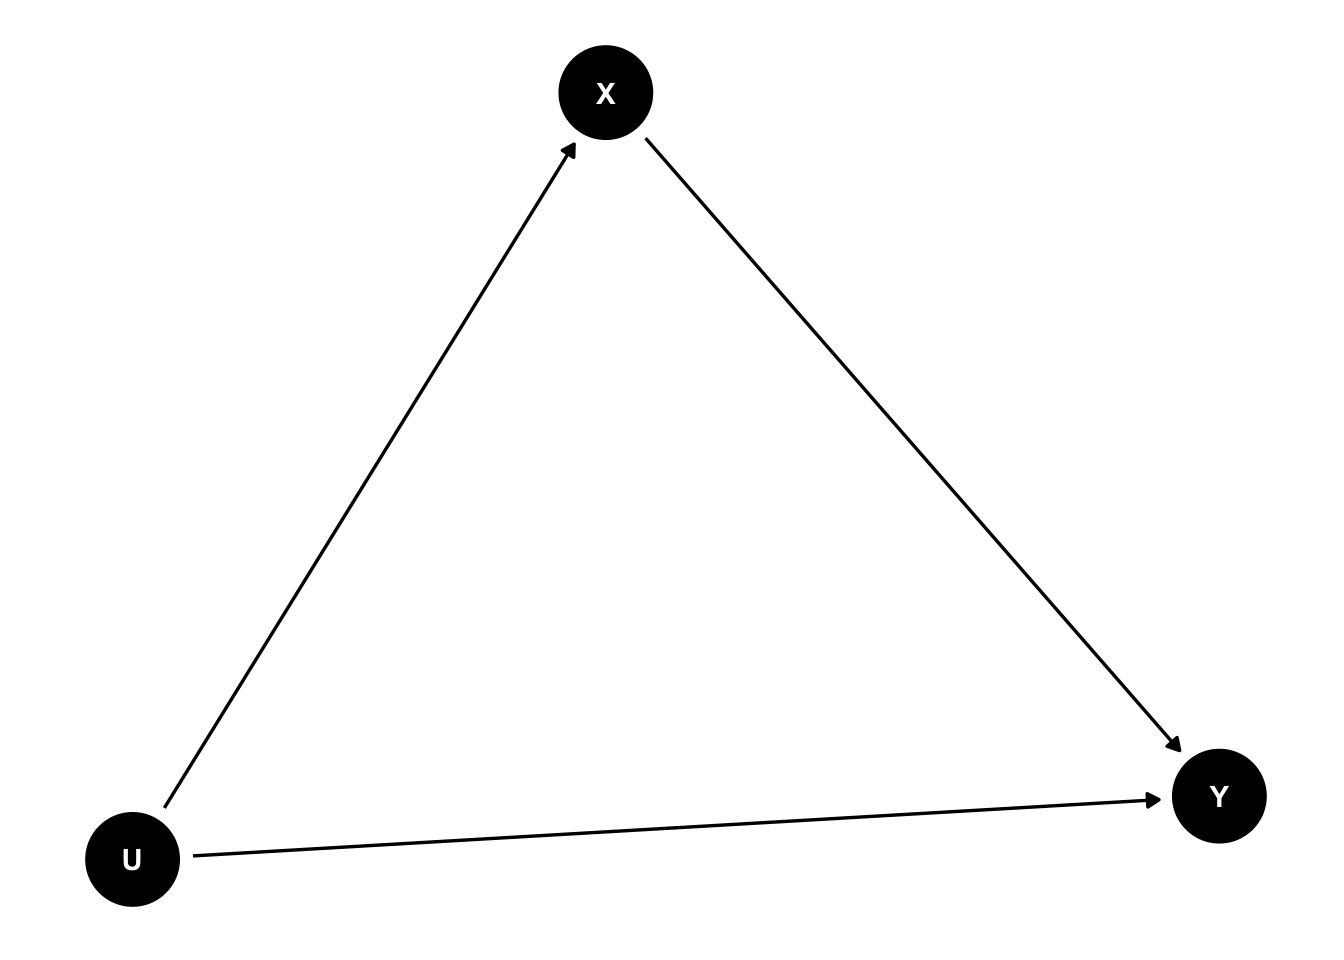
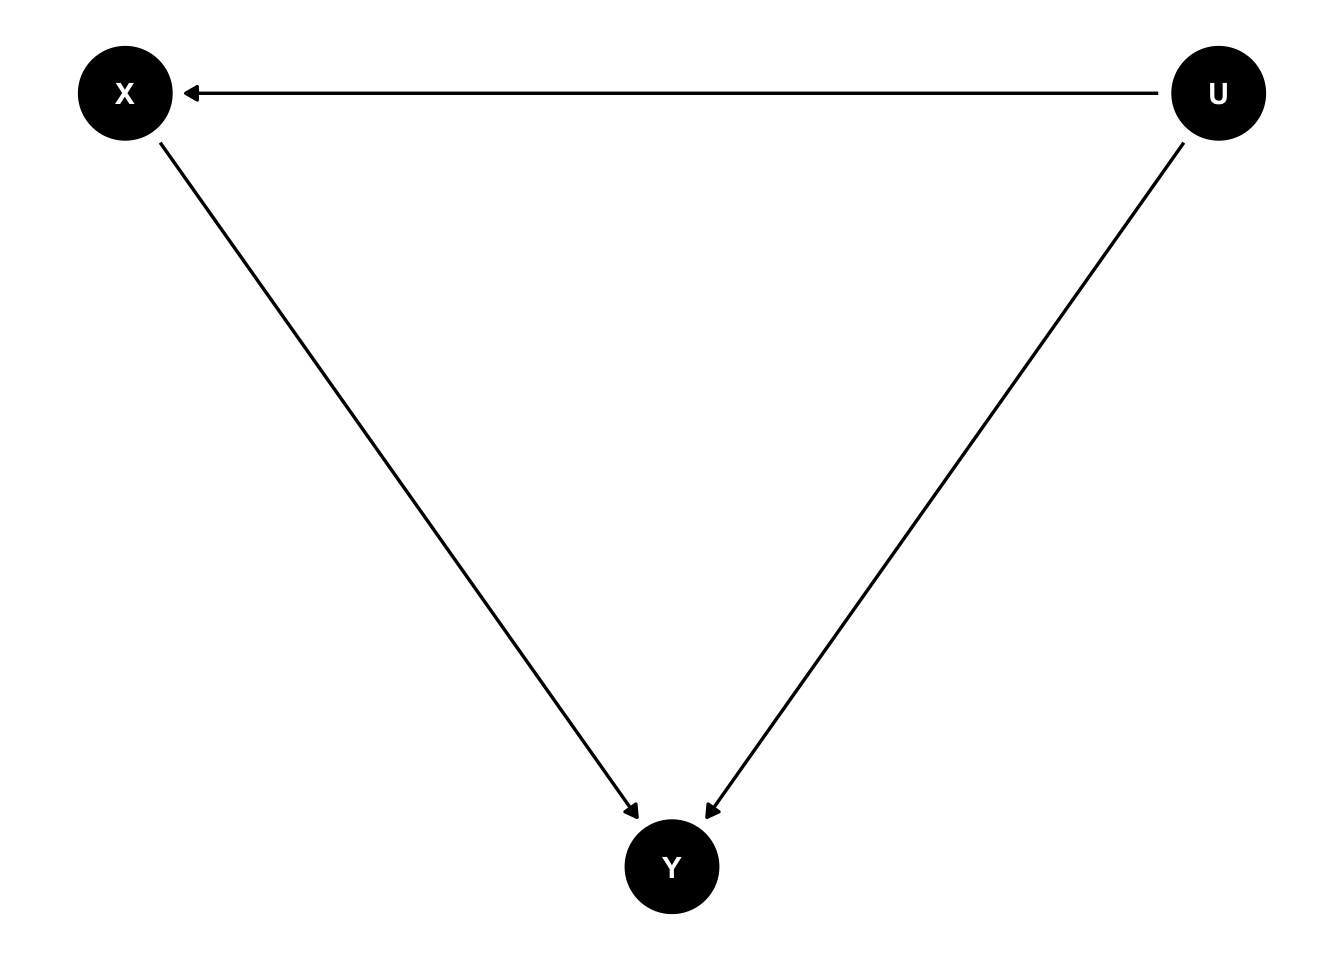
Built site for gh-pages

diff --git a/lectures/week-12_sensitivity_analysis-rev4.html b/lectures/week-12_sensitivity_analysis-rev4.html
@@ -262,7 +262,7 @@ window.Quarto = {
 </script>
 
 <link rel="stylesheet" href="../assets/styles/css/home.css">
-<meta property="og:title" content="Week 10: Bounds and Tipping-Point Sensitivity Analysis – Introduction to Causal Inference">
+<meta property="og:title" content="Week 12: Bounds and Tipping-Point Sensitivity Analysis – Introduction to Causal Inference">
 <meta property="og:description" content="Introduction to Causal Inference">
[1 lines of base64/hex data omitted]
 <meta property="og:site_name" content="Introduction to Causal Inference">
@@ -547,7 +547,7 @@ window.Quarto = {
       <div>
       <div class="quarto-title-meta-heading">Published</div>
       <div class="quarto-title-meta-contents">
-        <p class="date">Nov-05-2025</p>
+        <p class="date">Nov-06-2025</p>
       </div>
     </div>
     
@@ -783,31 +783,31 @@ window.Quarto = {
 </section>
 <section id="part-a-bounds-partial-identification" class="level3">
 <h3 class="anchored" data-anchor-id="part-a-bounds-partial-identification">Part A: Bounds (Partial Identification)</h3>
-<p>If we make <em>no</em> assumption about <span class="math inline">\(U\)</span>, we lose point identification. We can no longer estimate a single value for the Average Treatment Effect (ATE), <span class="math inline">\(\mathbb{E}[Y(1) - Y(0)]\)</span>.</p>
+<p>If we make <em>no</em> assumption about <span class="math inline">\(U\)</span>, we lose point identification. We can no longer estimate a single value for the Average Treatment Effect (ATE), <span class="math inline">\(\mathbb{E}[Y^1 - Y^0]\)</span>.</p>
 <p>However, we can often identify a <strong>range</strong> or <strong>set</strong> of possible values. This is <strong>partial identification</strong>. The key insight is to decompose the ATE into an <em>observable</em> part and an <em>unobservable</em> (counterfactual) part.</p>
-<p>For a binary outcome <span class="math inline">\(Y \in \{0, 1\}\)</span> and exposure <span class="math inline">\(X \in \{0, 1\}\)</span>, let <span class="math inline">\(\pi = P(X=1)\)</span>. The ATE is:</p>
-<p><span class="math inline">\(ATE = \mathbb{E}[Y(1)] - \mathbb{E}[Y(0)]\)</span></p>
+<p>For a binary outcome <span class="math inline">\(Y \in \{0, 1\}\)</span> and exposure <span class="math inline">\(X \in \{0, 1\}\)</span>, let <span class="math inline">\(\pi = P(A=1)\)</span>. The ATE is:</p>
+<p><span class="math inline">\(ATE = \mathbb{E}[Y^1] - \mathbb{E}[Y^0]\)</span></p>
 <p>We can rewrite this using the law of total probability:</p>
-<p><span class="math inline">\(ATE = [P(Y(1)=1|X=1)\pi + P(Y(1)=1|X=0)(1-\pi)] - [P(Y(0)=1|X=1)\pi + P(Y(0)=1|X=0)(1-\pi)]\)</span></p>
-<p>By consistency (<span class="math inline">\(Y = Y(x)\)</span> if <span class="math inline">\(X=x\)</span>), we can identify two of these terms:</p>
+<p><span class="math inline">\(ATE = [P(Y^1=1|A=1)\pi + P(Y^1=1|A=0)(1-\pi)] - [P(Y^0=1|A=1)\pi + P(Y^0=1|A=0)(1-\pi)]\)</span></p>
+<p>By consistency (<span class="math inline">\(Y = Y^a\)</span> if <span class="math inline">\(A=a\)</span>), we can identify two of these terms:</p>
 <ul>
-<li><span class="math inline">\(P(Y(1)=1|X=1) = P(Y=1|X=1)\)</span> (Observed risk in the exposed)</li>
-<li><span class="math inline">\(P(Y(0)=1|X=0) = P(Y=1|X=0)\)</span> (Observed risk in the unexposed)</li>
+<li><span class="math inline">\(P(Y^1=1|A=1) = P(Y=1|A=1)\)</span> (Observed risk in the exposed)</li>
+<li><span class="math inline">\(P(Y^0=1|A=0) = P(Y=1|A=0)\)</span> (Observed risk in the unexposed)</li>
 </ul>
 <p>But two terms remain unknown:</p>
 <ul>
-<li><span class="math inline">\(P(Y(1)=1|X=0)\)</span> (Counterfactual risk of outcome <em>with</em> exposure, among those who were <em>unexposed</em>)</li>
-<li><span class="math inline">\(P(Y(0)=1|X=1)\)</span> (Counterfactual risk of outcome <em>without</em> exposure, among those who were <em>exposed</em>)</li>
+<li><span class="math inline">\(P(Y^1=1|A=0)\)</span> (Counterfactual risk of outcome <em>with</em> exposure, among those who were <em>unexposed</em>)</li>
+<li><span class="math inline">\(P(Y^0=1|A=1)\)</span> (Counterfactual risk of outcome <em>without</em> exposure, among those who were <em>exposed</em>)</li>
 </ul>
 <section id="the-no-assumptions-manski-bound" class="level4">
 <h4 class="anchored" data-anchor-id="the-no-assumptions-manski-bound">The No-Assumptions (Manski) Bound</h4>
 <p>If we assume <em>nothing</em> about the counterfactual terms, we only know they are probabilities, so they must lie in <span class="math inline">\([0, 1]\)</span>. To get the widest possible range for the ATE, we “plug in” the most extreme values for these unknown terms.</p>
 <ul>
-<li><strong>To find the Upper Bound for ATE:</strong> We assume the best-case scenario. We set the unknown “benefit” term <span class="math inline">\(P(Y(1)=1|X=0)\)</span> to its maximum (1) and the unknown “harm” term <span class="math inline">\(P(Y(0)=1|X=1)\)</span> to its minimum (0).</li>
-<li><strong>To find the Lower Bound for ATE:</strong> We assume the worst-case scenario. We set <span class="math inline">\(P(Y(1)=1|X=0) = 0\)</span> and <span class="math inline">\(P(Y(0)=1|X=1) = 1\)</span>.</li>
+<li><strong>To find the Upper Bound for ATE:</strong> We assume the best-case scenario. We set the unknown “benefit” term <span class="math inline">\(P(Y^1=1|A=0)\)</span> to its maximum (1) and the unknown “harm” term <span class="math inline">\(P(Y^0=1|A=1)\)</span> to its minimum (0).</li>
+<li><strong>To find the Lower Bound for ATE:</strong> We assume the worst-case scenario. We set <span class="math inline">\(P(Y^1=1|A=0) = 0\)</span> and <span class="math inline">\(P(Y^0=1|A=1) = 1\)</span>.</li>
 </ul>
 <p>This gives the “no-assumptions bound.” It is often very wide, but it is the <em>only</em> conclusion we can draw from the data alone, without untestable assumptions <span class="citation" data-cites="hernan2020causalwhatif">(<a href="#ref-hernan2020causalwhatif" role="doc-biblioref">Hernán &amp; Robins, 2020</a>)</span>.</p>
-<p>We can tighten these bounds by making weaker, non-testable assumptions, such as <strong>monotone treatment response</strong> (e.g., the vaccine <em>never</em> causes the disease, <span class="math inline">\(Y_i(1) \le Y_i(0)\)</span> for all <span class="math inline">\(i\)</span>) or <strong>monotone treatment selection</strong> (e.g., people who choose to get the vaccine are inherently healthier) <span class="citation" data-cites="neal2020intro">(<a href="#ref-neal2020intro" role="doc-biblioref">Neal, 2020</a>)</span>.</p>
+<p>We can tighten these bounds by making weaker, non-testable assumptions, such as <strong>monotone treatment response</strong> (e.g., the vaccine <em>never</em> causes the disease, <span class="math inline">\(Y_i^1 \le Y_i^0\)</span> for all <span class="math inline">\(i\)</span>) or <strong>monotone treatment selection</strong> (e.g., people who choose to get the vaccine are inherently healthier) <span class="citation" data-cites="neal2020intro">(<a href="#ref-neal2020intro" role="doc-biblioref">Neal, 2020</a>)</span>.</p>
 </section>
 </section>
 <section id="part-b-tipping-point-sensitivity-analysis" class="level3">
@@ -866,27 +866,27 @@ window.Quarto = {
 <li><strong>Exposure (<span class="math inline">\(X\)</span>):</strong> Vaccinated (<span class="math inline">\(1=\text{Yes}, 0=\text{No}\)</span>).</li>
 <li><strong>Data:</strong>
 <ul>
-<li>Proportion vaccinated: <span class="math inline">\(\pi = P(X=1) = 0.6\)</span></li>
-<li>Incidence in vaccinated: <span class="math inline">\(P(Y=1|X=1) = 0.02\)</span></li>
-<li>Incidence in unvaccinated: <span class="math inline">\(P(Y=1|X=0) = 0.10\)</span></li>
+<li>Proportion vaccinated: <span class="math inline">\(\pi = P(A=1) = 0.6\)</span></li>
+<li>Incidence in vaccinated: <span class="math inline">\(P(Y=1|A=1) = 0.02\)</span></li>
+<li>Incidence in unvaccinated: <span class="math inline">\(P(Y=1|A=0) = 0.10\)</span></li>
 </ul></li>
 </ul>
 <p>The <strong>naive associational difference</strong> (a Risk Difference) is <span class="math inline">\(0.02 - 0.10 = -0.08\)</span>. This <em>suggests</em> the vaccine is protective. But what about unobserved confounding (e.g., vaccinated people are also more cautious)?</p>
-<p>Let’s calculate the no-assumptions bounds for the ATE, <span class="math inline">\(\mathbb{E}[Y(1) - Y(0)]\)</span>.</p>
-<p><strong>Recall the ATE decomposition:</strong> <span class="math inline">\(ATE = [P(Y(1)|X=1)\pi + P(Y(1)|X=0)(1-\pi)] - [P(Y(0)|X=1)\pi + P(Y(0)|X=0)(1-\pi)]\)</span></p>
-<p><strong>Plug in what we know:</strong> <span class="math inline">\(ATE = [0.02 \times 0.6 + P(Y(1)|X=0) \times 0.4] - [P(Y(0)|X=1) \times 0.6 + 0.10 \times 0.4]\)</span> <span class="math inline">\(ATE = 0.012 + 0.4 \times P(Y(1)|X=0) - 0.6 \times P(Y(0)|X=1) - 0.04\)</span> <span class="math inline">\(ATE = -0.028 + 0.4 \times P(Y(1)|X=0) - 0.6 \times P(Y(0)|X=1)\)</span></p>
+<p>Let’s calculate the no-assumptions bounds for the ATE, <span class="math inline">\(\mathbb{E}[Y^1 - Y^0]\)</span>.</p>
+<p><strong>Recall the ATE decomposition:</strong> <span class="math inline">\(ATE = [P(Y^1|A=1)\pi + P(Y^1|A=0)(1-\pi)] - [P(Y^0|A=1)\pi + P(Y^0|A=0)(1-\pi)]\)</span></p>
+<p><strong>Plug in what we know:</strong> <span class="math inline">\(ATE = [0.02 \times 0.6 + P(Y^1|A=0) \times 0.4] - [P(Y^0|A=1) \times 0.6 + 0.10 \times 0.4]\)</span> <span class="math inline">\(ATE = 0.012 + 0.4 \times P(Y^1|A=0) - 0.6 \times P(Y^0|A=1) - 0.04\)</span> <span class="math inline">\(ATE = -0.028 + 0.4 \times P(Y^1|A=0) - 0.6 \times P(Y^0|A=1)\)</span></p>
 <p><strong>Solve for Bounds:</strong></p>
 <ul>
 <li><strong>Upper Bound (Worst-case for harm, best-case for benefit):</strong>
 <ul>
-<li>Set <span class="math inline">\(P(Y(1)|X=0) = 1\)</span> (unexposed would have all gotten sick if treated)</li>
-<li>Set <span class="math inline">\(P(Y(0)|X=1) = 0\)</span> (exposed would have all been healthy if untreated)</li>
+<li>Set <span class="math inline">\(P(Y^1|A=0) = 1\)</span> (unexposed would have all gotten sick if treated)</li>
+<li>Set <span class="math inline">\(P(Y^0|A=1) = 0\)</span> (exposed would have all been healthy if untreated)</li>
 <li><span class="math inline">\(\text{Upper} = -0.028 + 0.4 \times (1) - 0.6 \times (0) = -0.028 + 0.4 = \mathbf{0.372}\)</span></li>
 </ul></li>
 <li><strong>Lower Bound (Best-case for harm, worst-case for benefit):</strong>
 <ul>
-<li>Set <span class="math inline">\(P(Y(1)|X=0) = 0\)</span></li>
-<li>Set <span class="math inline">\(P(Y(0)|X=1) = 1\)</span></li>
+<li>Set <span class="math inline">\(P(Y^1|A=0) = 0\)</span></li>
+<li>Set <span class="math inline">\(P(Y^0|A=1) = 1\)</span></li>
 <li><span class="math inline">\(\text{Lower} = -0.028 + 0.4 \times (0) - 0.6 \times (1) = -0.028 - 0.6 = \mathbf{-0.628}\)</span></li>
 </ul></li>
 </ul>
@@ -980,11 +980,11 @@ Here is the equivalent `tikz` code, which you can embed in a Quarto document usi
 <span id="cb3-5"><a href="#cb3-5" aria-hidden="true" tabindex="-1"></a>  term2 <span class="ot">&lt;-</span> E_Y_t0 <span class="sc">*</span> (<span class="dv">1</span> <span class="sc">-</span> pi)</span>
 <span id="cb3-6"><a href="#cb3-6" aria-hidden="true" tabindex="-1"></a></span>
 <span id="cb3-7"><a href="#cb3-7" aria-hidden="true" tabindex="-1"></a>  <span class="co"># Calculate upper bound</span></span>
-<span id="cb3-8"><a href="#cb3-8" aria-hidden="true" tabindex="-1"></a>  <span class="co"># We set P(Y(1)|X=0) = b (max) and P(Y(0)|X=1) = a (min)</span></span>
+<span id="cb3-8"><a href="#cb3-8" aria-hidden="true" tabindex="-1"></a>  <span class="co"># We set P(Y^1|A=0) = b (max) and P(Y^0|A=1) = a (min)</span></span>
 <span id="cb3-9"><a href="#cb3-9" aria-hidden="true" tabindex="-1"></a>  upper <span class="ot">&lt;-</span> (term1 <span class="sc">+</span> b <span class="sc">*</span> (<span class="dv">1</span> <span class="sc">-</span> pi)) <span class="sc">-</span> (a <span class="sc">*</span> pi <span class="sc">+</span> term2)</span>
 <span id="cb3-10"><a href="#cb3-10" aria-hidden="true" tabindex="-1"></a></span>
 <span id="cb3-11"><a href="#cb3-11" aria-hidden="true" tabindex="-1"></a>  <span class="co"># Calculate lower bound</span></span>
-<span id="cb3-12"><a href="#cb3-12" aria-hidden="true" tabindex="-1"></a>  <span class="co"># We set P(Y(1)|X=0) = a (min) and P(Y(0)|X=1) = b (max)</span></span>
+<span id="cb3-12"><a href="#cb3-12" aria-hidden="true" tabindex="-1"></a>  <span class="co"># We set P(Y^1|A=0) = a (min) and P(Y^0|A=1) = b (max)</span></span>
 <span id="cb3-13"><a href="#cb3-13" aria-hidden="true" tabindex="-1"></a>  lower <span class="ot">&lt;-</span> (term1 <span class="sc">+</span> a <span class="sc">*</span> (<span class="dv">1</span> <span class="sc">-</span> pi)) <span class="sc">-</span> (b <span class="sc">*</span> pi <span class="sc">+</span> term2)</span>
 <span id="cb3-14"><a href="#cb3-14" aria-hidden="true" tabindex="-1"></a></span>
 <span id="cb3-15"><a href="#cb3-15" aria-hidden="true" tabindex="-1"></a>  <span class="fu">return</span>(<span class="fu">c</span>(<span class="at">lower_bound =</span> lower, <span class="at">upper_bound =</span> upper))</span>
@@ -1107,8 +1107,8 @@ Here is the equivalent `tikz` code, which you can embed in a Quarto document usi
 <ul>
 <li>Observed RR for a diet-heart study: <strong>1.4</strong></li>
 <li><span class="math inline">\(U\)</span>: “Smoker” (unmeasured)</li>
-<li>We suspect 25% of the “high-fat diet” group (<span class="math inline">\(X=1\)</span>) are smokers: <code>exposed_confounder_prev = 0.25</code></li>
-<li>We suspect 5% of the “low-fat diet” group (<span class="math inline">\(X=0\)</span>) are smokers: <code>unexposed_confounder_prev = 0.05</code></li>
+<li>We suspect 25% of the “high-fat diet” group (<span class="math inline">\(A=1\)</span>) are smokers: <code>exposed_confounder_prev = 0.25</code></li>
+<li>We suspect 5% of the “low-fat diet” group (<span class="math inline">\(A=0\)</span>) are smokers: <code>unexposed_confounder_prev = 0.05</code></li>
 </ul>
 <p>How strong must the <span class="math inline">\(U \to Y\)</span> (Smoking <span class="math inline">\(\to\)</span> Heart Disease) effect be?</p>
 <div class="cell">
@@ -1250,7 +1250,7 @@ Here is the equivalent `tikz` code, which you can embed in a Quarto document usi
 <span id="cb12-6"><a href="#cb12-6" aria-hidden="true" tabindex="-1"></a>U <span class="ot">&lt;-</span> <span class="fu">rbeta</span>(n, <span class="dv">2</span>, <span class="dv">2</span>)</span>
 <span id="cb12-7"><a href="#cb12-7" aria-hidden="true" tabindex="-1"></a></span>
 <span id="cb12-8"><a href="#cb12-8" aria-hidden="true" tabindex="-1"></a><span class="co"># X: Statin-B assignment, depends on U</span></span>
-<span id="cb12-9"><a href="#cb12-9" aria-hidden="true" tabindex="-1"></a><span class="co"># log-odds(X=1) = -0.5 + 1.5*U</span></span>
+<span id="cb12-9"><a href="#cb12-9" aria-hidden="true" tabindex="-1"></a><span class="co"># log-odds(A=1) = -0.5 + 1.5*U</span></span>
 <span id="cb12-10"><a href="#cb12-10" aria-hidden="true" tabindex="-1"></a>prob_X <span class="ot">&lt;-</span> <span class="fu">plogis</span>(<span class="sc">-</span><span class="fl">0.5</span> <span class="sc">+</span> <span class="fl">1.5</span> <span class="sc">*</span> U)</span>
 <span id="cb12-11"><a href="#cb12-11" aria-hidden="true" tabindex="-1"></a>X <span class="ot">&lt;-</span> <span class="fu">rbinom</span>(n, <span class="dv">1</span>, prob_X)</span>
 <span id="cb12-12"><a href="#cb12-12" aria-hidden="true" tabindex="-1"></a></span>
@@ -1658,14 +1658,14 @@ VanderWeele, T. J., &amp; Ding, P. (2017). Sensitivity analysis in observational
 <h2 class="anchored" data-anchor-id="appendix-advanced-theory-derivations">8. Appendix: Advanced Theory &amp; Derivations</h2>
 <section id="observational-counterfactual-decomposition" class="level3">
 <h3 class="anchored" data-anchor-id="observational-counterfactual-decomposition">Observational-Counterfactual Decomposition</h3>
-<p>The key to bounds analysis is this decomposition. Let <span class="math inline">\(ATE = \mathbb{E}[Y(1) - Y(0)]\)</span> and <span class="math inline">\(\pi = P(X=1)\)</span>.</p>
+<p>The key to bounds analysis is this decomposition. Let <span class="math inline">\(ATE = \mathbb{E}[Y^1 - Y^0]\)</span> and <span class="math inline">\(\pi = P(A=1)\)</span>.</p>
 <ol type="1">
-<li><span class="math inline">\(ATE = \mathbb{E}[Y(1)] - \mathbb{E}[Y(0)]\)</span></li>
-<li><span class="math inline">\(ATE = [\mathbb{E}[Y(1)|X=1]\pi + \mathbb{E}[Y(1)|X=0](1-\pi)] - [\mathbb{E}[Y(0)|X=1]\pi + \mathbb{E}[Y(0)|X=0](1-\pi)]\)</span> (Law of Total Prob.)</li>
-<li><span class="math inline">\(ATE = [\mathbb{E}[Y|X=1]\pi + \mathbb{E}[Y(1)|X=0](1-\pi)] - [\mathbb{E}[Y(0)|X=1]\pi + \mathbb{E}[Y|X=0](1-\pi)]\)</span> (Consistency)</li>
-<li><span class="math inline">\(ATE = \underbrace{\mathbb{E}[Y|X=1]\pi - \mathbb{E}[Y|X=0](1-\pi)}_{\text{Observable Part}} + \underbrace{\mathbb{E}[Y(1)|X=0](1-\pi) - \mathbb{E}[Y(0)|X=1]\pi}_{\text{Unobservable (Counterfactual) Part}}\)</span></li>
+<li><span class="math inline">\(ATE = \mathbb{E}[Y^1] - \mathbb{E}[Y^0]\)</span></li>
+<li><span class="math inline">\(ATE = [\mathbb{E}[Y^1|A=1]\pi + \mathbb{E}[Y^1|A=0](1-\pi)] - [\mathbb{E}[Y^0|A=1]\pi + \mathbb{E}[Y^0|A=0](1-\pi)]\)</span> (Law of Total Prob.)</li>
+<li><span class="math inline">\(ATE = [\mathbb{E}[Y|A=1]\pi + \mathbb{E}[Y^1|A=0](1-\pi)] - [\mathbb{E}[Y^0|A=1]\pi + \mathbb{E}[Y|A=0](1-\pi)]\)</span> (Consistency)</li>
+<li><span class="math inline">\(ATE = \underbrace{\mathbb{E}[Y|A=1]\pi - \mathbb{E}[Y|A=0](1-\pi)}_{\text{Observable Part}} + \underbrace{\mathbb{E}[Y^1|A=0](1-\pi) - \mathbb{E}[Y^0|A=1]\pi}_{\text{Unobservable (Counterfactual) Part}}\)</span></li>
 </ol>
-<p>The “no-assumptions” bound is derived by setting the unobservable terms, <span class="math inline">\(\mathbb{E}[Y(1)|X=0]\)</span> and <span class="math inline">\(\mathbb{E}[Y(0)|X=1]\)</span>, to their logical extrema (e.g., <span class="math inline">\([0, 1]\)</span> for a binary outcome).</p>
+<p>The “no-assumptions” bound is derived by setting the unobservable terms, <span class="math inline">\(\mathbb{E}[Y^1|A=0]\)</span> and <span class="math inline">\(\mathbb{E}[Y^0|A=1]\)</span>, to their logical extrema (e.g., <span class="math inline">\([0, 1]\)</span> for a binary outcome).</p>
 </section>
 <section id="additive-bias-formula-linear-scm" class="level3">
 <h3 class="anchored" data-anchor-id="additive-bias-formula-linear-scm">Additive Bias Formula (Linear SCM)</h3>

diff --git a/home_lectures.html b/home_lectures.html
@@ -468,7 +468,7 @@ ul.task-list li input[type="checkbox"] {
       <div>
       <div class="quarto-title-meta-heading">Modified</div>
       <div class="quarto-title-meta-contents">
-        <p class="date-modified">November 5, 2025</p>
+        <p class="date-modified">November 6, 2025</p>
       </div>
     </div>
       
